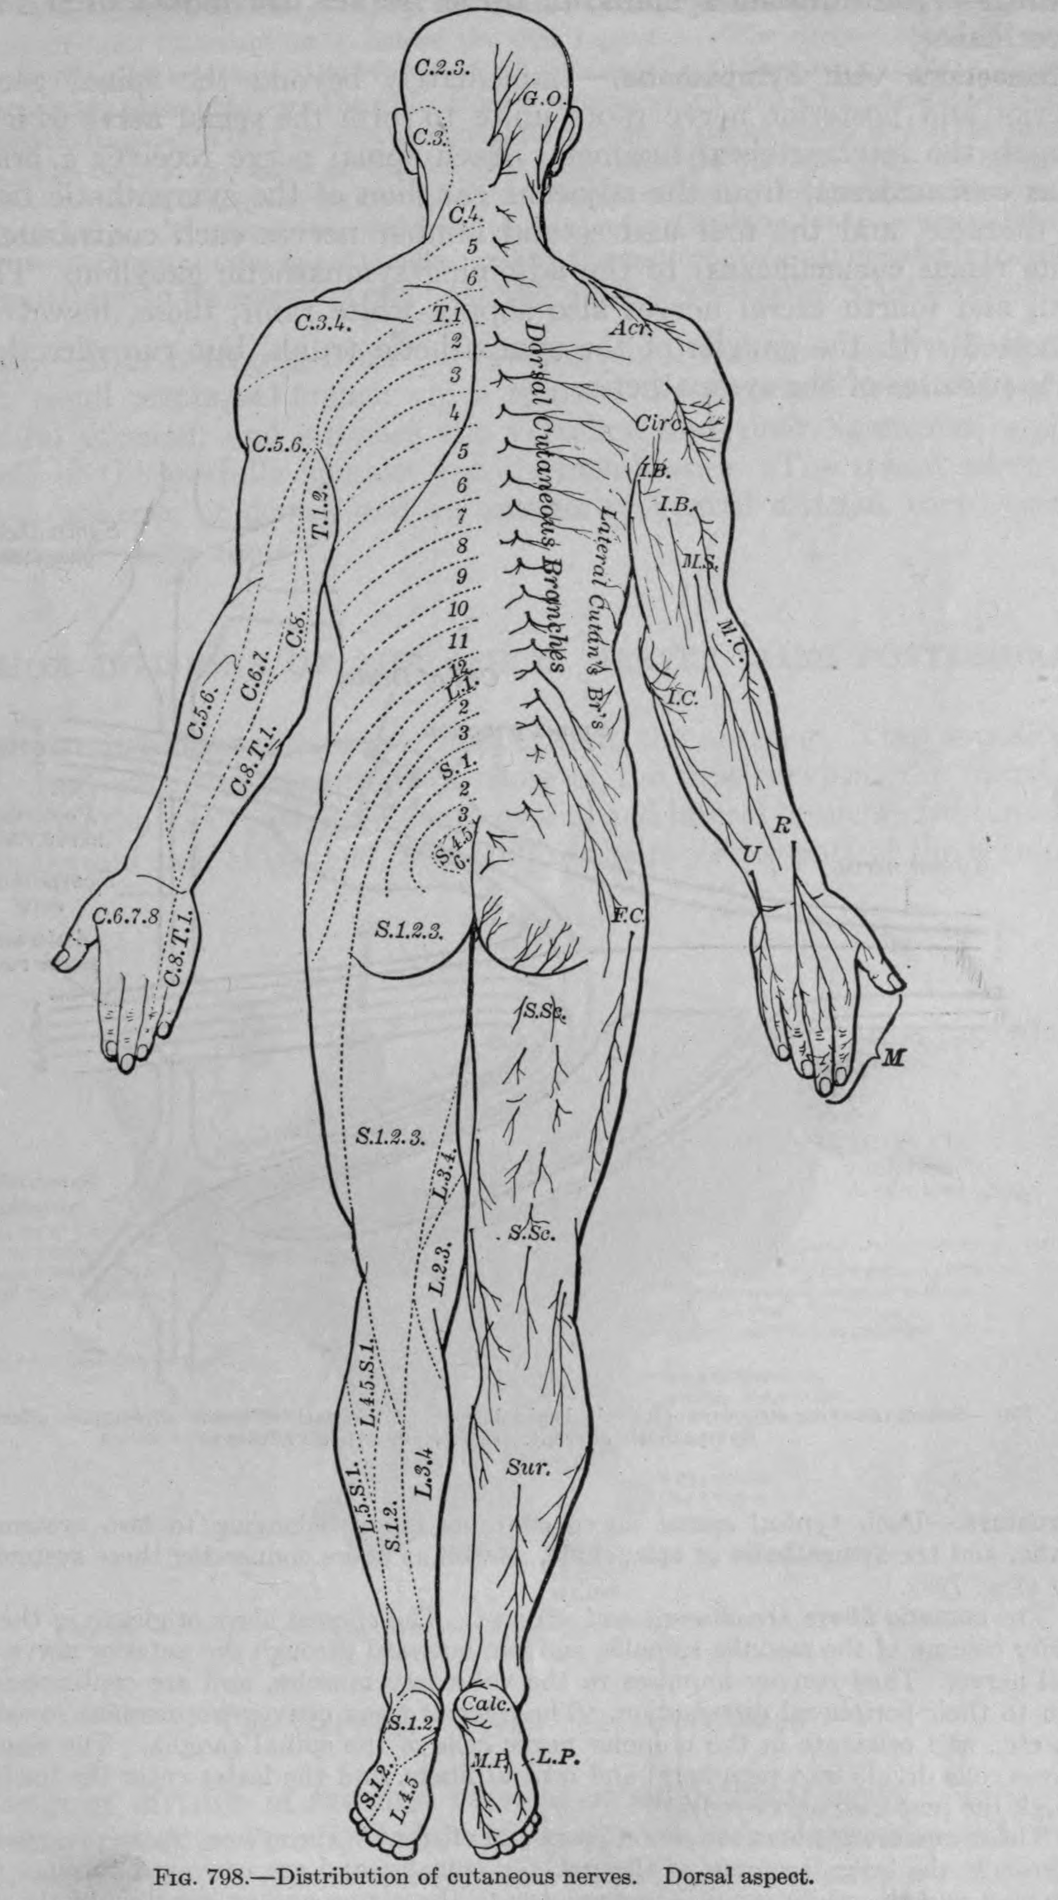
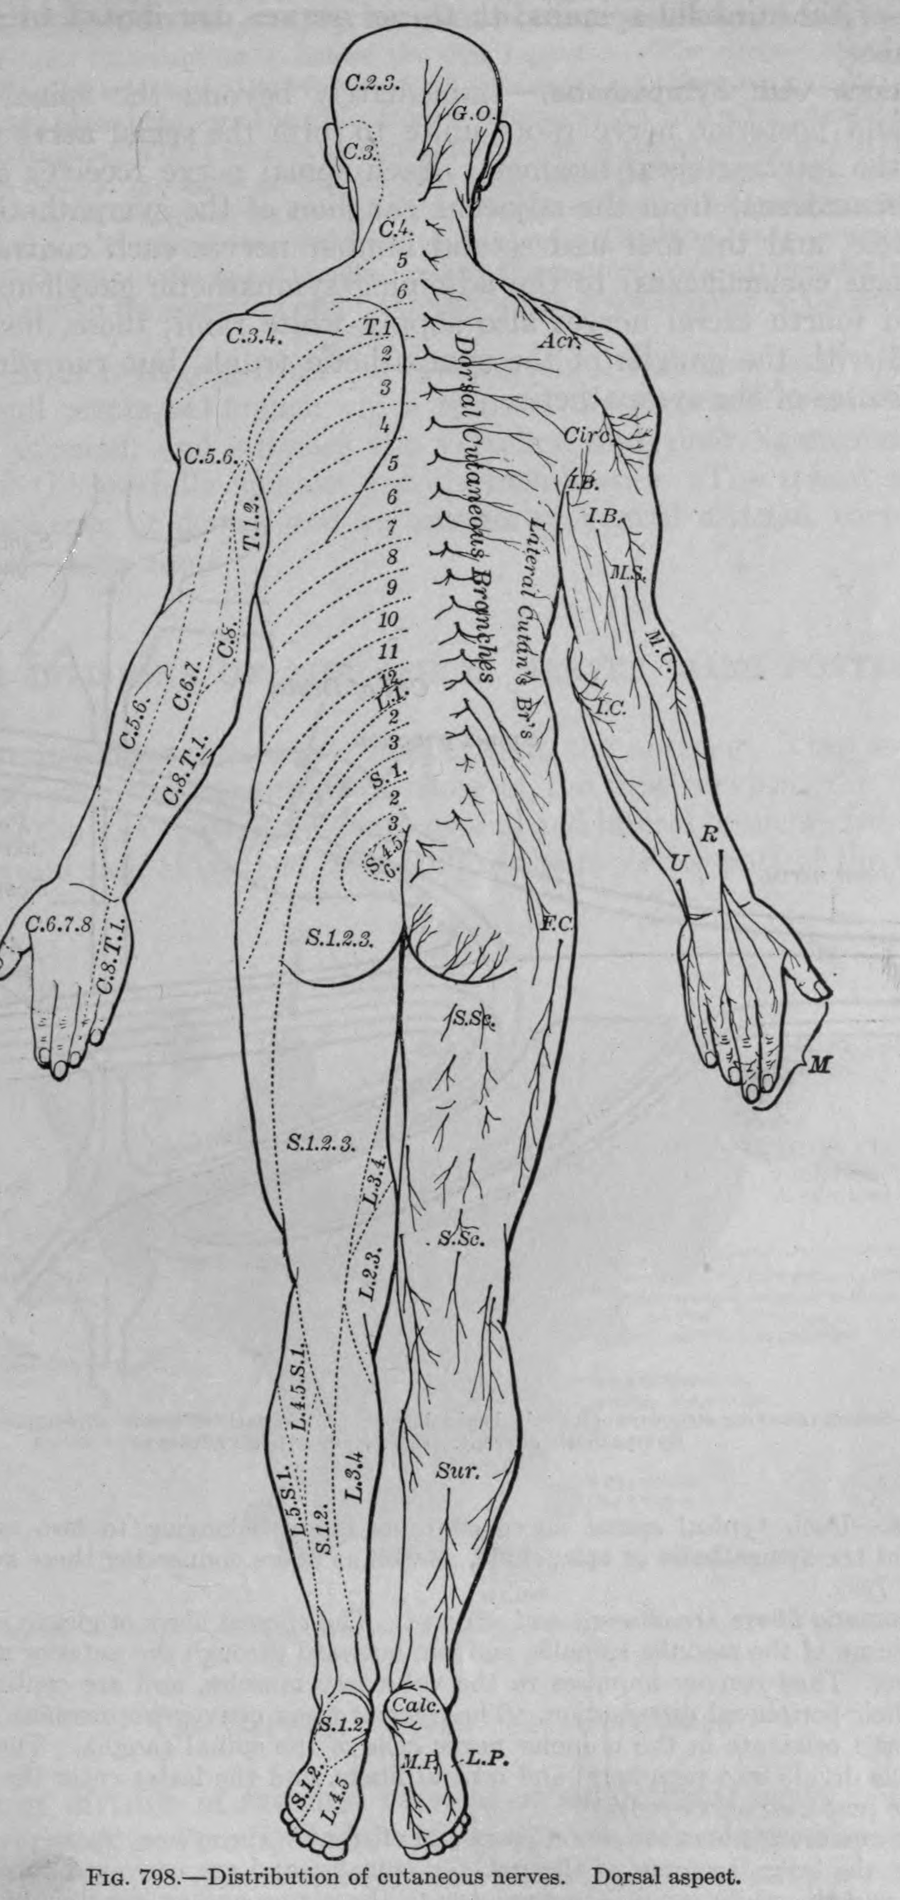
content(outpost): re-crop both plates to the plate itself, refit overlay to 900px

Changed region(s): [[0.0, 0.0, 0.9333, 0.9937]]

diff --git a/art/outpost-protocol-g6/PROVENANCE.md b/art/outpost-protocol-g6/PROVENANCE.md
@@ -14,8 +14,8 @@ without a row here first is itself the defect, not a formatting gap to fix later
 
 | Figure ID | File | Institution | Accession / Image ID | Licence Basis | Source URL | Retrieved | Evidence Note |
 |---|---|---|---|---|---|---|---|
-| fig-body-systems (Ventral view) | gray-nervous-ventral.png | Internet Archive (scan of Henry Gray, *Anatomy of the Human Body*, Philadelphia: Lea & Febiger, 1918) | IA identifier `anatomyofhumanbo00grayrich`, leaf 918 (Fig. 797) | Verified-PD-by-edition (published 1918, author Henry Gray d. 1861, illustrator Henry Vandyke Carter d. 1897): public domain | https://archive.org/details/anatomyofhumanbo00grayrich (page 918) | 2026-08-11 | IA's own catalog metadata records `date: 1918`, `publisher: Lea & Febiger`.  The plate itself is captioned in print, "FIG. 797. Distribution of cutaneous nerves. Ventral aspect."  (the original typesets a dash after the figure number, rendered here as a period).  Cross-checked against Wikimedia's independent Bartleby digitization (File:Gray797.png, extmetadata Credit: "Henry Gray (1918) Anatomy of the Human Body" / Bartleby.com Plate 797), which carries the same caption, the same plate number, and the same 1918 credit, corroborating the edition.  Sourced from IA's raw page scan rather than Wikimedia's copy because Wikimedia's is only 418x850px, below the 1600px floor; IA's native page scan is 2254x3840, cropped to the figure and downsized to 1058x1900 (long edge 1900) for the pack asset. |
-| fig-body-systems (Dorsal view) | gray-nervous-dorsal.png | Internet Archive (scan of Henry Gray, *Anatomy of the Human Body*, Philadelphia: Lea & Febiger, 1918) | IA identifier `anatomyofhumanbo00grayrich`, leaf 919 (Fig. 798) | Verified-PD-by-edition (published 1918, author Henry Gray d. 1861, illustrator Henry Vandyke Carter d. 1897): public domain | https://archive.org/details/anatomyofhumanbo00grayrich (page 919) | 2026-08-11 | Same evidence standard as the Ventral view above.  IA's catalog metadata is the same record (one book, adjoining leaf).  The plate is captioned in print, "FIG. 798. Distribution of cutaneous nerves. Dorsal aspect.," the dorsal counterpart on the very next page.  Verified directly from the IA raw scan (not from Wikimedia's File:Gray798.png, whose own copy is small) that this is a FULL STANDING FIGURE, head to feet, posterior view, matching the ventral plate's composition exactly.  IA's native page scan is 2254x3840, cropped to the figure and downsized to 1058x1900 (long edge 1900), same as the ventral asset. |
+| fig-body-systems (Ventral view) | gray-nervous-ventral.png | Internet Archive (scan of Henry Gray, *Anatomy of the Human Body*, Philadelphia: Lea & Febiger, 1918) | IA identifier `anatomyofhumanbo00grayrich`, leaf 918 (Fig. 797) | Verified-PD-by-edition (published 1918, author Henry Gray d. 1861, illustrator Henry Vandyke Carter d. 1897): public domain | https://archive.org/details/anatomyofhumanbo00grayrich (page 918) | 2026-08-11 | IA's own catalog metadata records `date: 1918`, `publisher: Lea & Febiger`.  The plate itself is captioned in print, "FIG. 797. Distribution of cutaneous nerves. Ventral aspect."  (the original typesets a dash after the figure number, rendered here as a period).  Cross-checked against Wikimedia's independent Bartleby digitization (File:Gray797.png, extmetadata Credit: "Henry Gray (1918) Anatomy of the Human Body" / Bartleby.com Plate 797), which carries the same caption, the same plate number, and the same 1918 credit, corroborating the edition.  Sourced from IA's raw page scan rather than Wikimedia's copy because Wikimedia's is only 418x850px, below the 1600px floor.  IA's native page scan is 2254x3840; the crop box was measured against the figure's own ink (dark-pixel bounding box, not eyeballed), 435,475 to 1868,3500 in raw-scan coordinates, a small even margin around the true figure edges (head, both fully-extended hands, both feet), then downsized to 900x1900 (long edge 1900) for the pack asset.  QUALITY NOTE (26-0811 recrop): the wider first-pass crop let readable body text from the neighbouring blank margin bleed in at the left and right edges.  Measured it directly (per-column pixel darkness against the blank-paper baseline): it is bleed-through from the reverse of the thin page, strongest in the outer ~300px of margin and fading to near-baseline by column x=420 (raw coordinates), not a second on-page column.  The tightened crop above removes the dense, legible blocks of it; a faint, illegible trace remains in the top corners above the shoulders and the bottom corners outside the legs, where the crop's rectangle necessarily exposes blank margin because the figure itself is narrower there than at the outstretched hands.  That residual is inherent to the scan and was not retouched. |
+| fig-body-systems (Dorsal view) | gray-nervous-dorsal.png | Internet Archive (scan of Henry Gray, *Anatomy of the Human Body*, Philadelphia: Lea & Febiger, 1918) | IA identifier `anatomyofhumanbo00grayrich`, leaf 919 (Fig. 798) | Verified-PD-by-edition (published 1918, author Henry Gray d. 1861, illustrator Henry Vandyke Carter d. 1897): public domain | https://archive.org/details/anatomyofhumanbo00grayrich (page 919) | 2026-08-11 | Same evidence standard as the Ventral view above.  IA's catalog metadata is the same record (one book, adjoining leaf).  The plate is captioned in print, "FIG. 798. Distribution of cutaneous nerves. Dorsal aspect.," the dorsal counterpart on the very next page.  Verified directly from the IA raw scan (not from Wikimedia's File:Gray798.png, whose own copy is small) that this is a FULL STANDING FIGURE, head to feet, posterior view, matching the ventral plate's composition exactly.  Same raw-scan crop box as the ventral asset (435,475 to 1868,3500; both plates share one page layout), downsized to 900x1900, matching the ventral file's final pixel dimensions exactly so the two tabs do not jump when a child switches between them.  QUALITY NOTE (26-0811 recrop): this plate carries faint straight-line ghosting across the buttocks and thigh, inside the figure's own silhouette, not in the margin.  TRACED IT TO ITS SOURCE: leaf 920, the reverse side of this same sheet, carries Fig. 799, "Scheme showing structure of a typical spinal nerve," a diagram drawn with horizontal red and blue ruled lines occupying roughly the same region of the page; the ghosting's position and orientation match that diagram bleeding through the thin paper.  This is bleed-through from the reverse of the sheet, exactly the case the plan anticipated, and it cannot be cropped away without cutting into the plate's own torso and thigh.  Left as-is, not retouched. |
 
 ## Rejected Candidates
 
